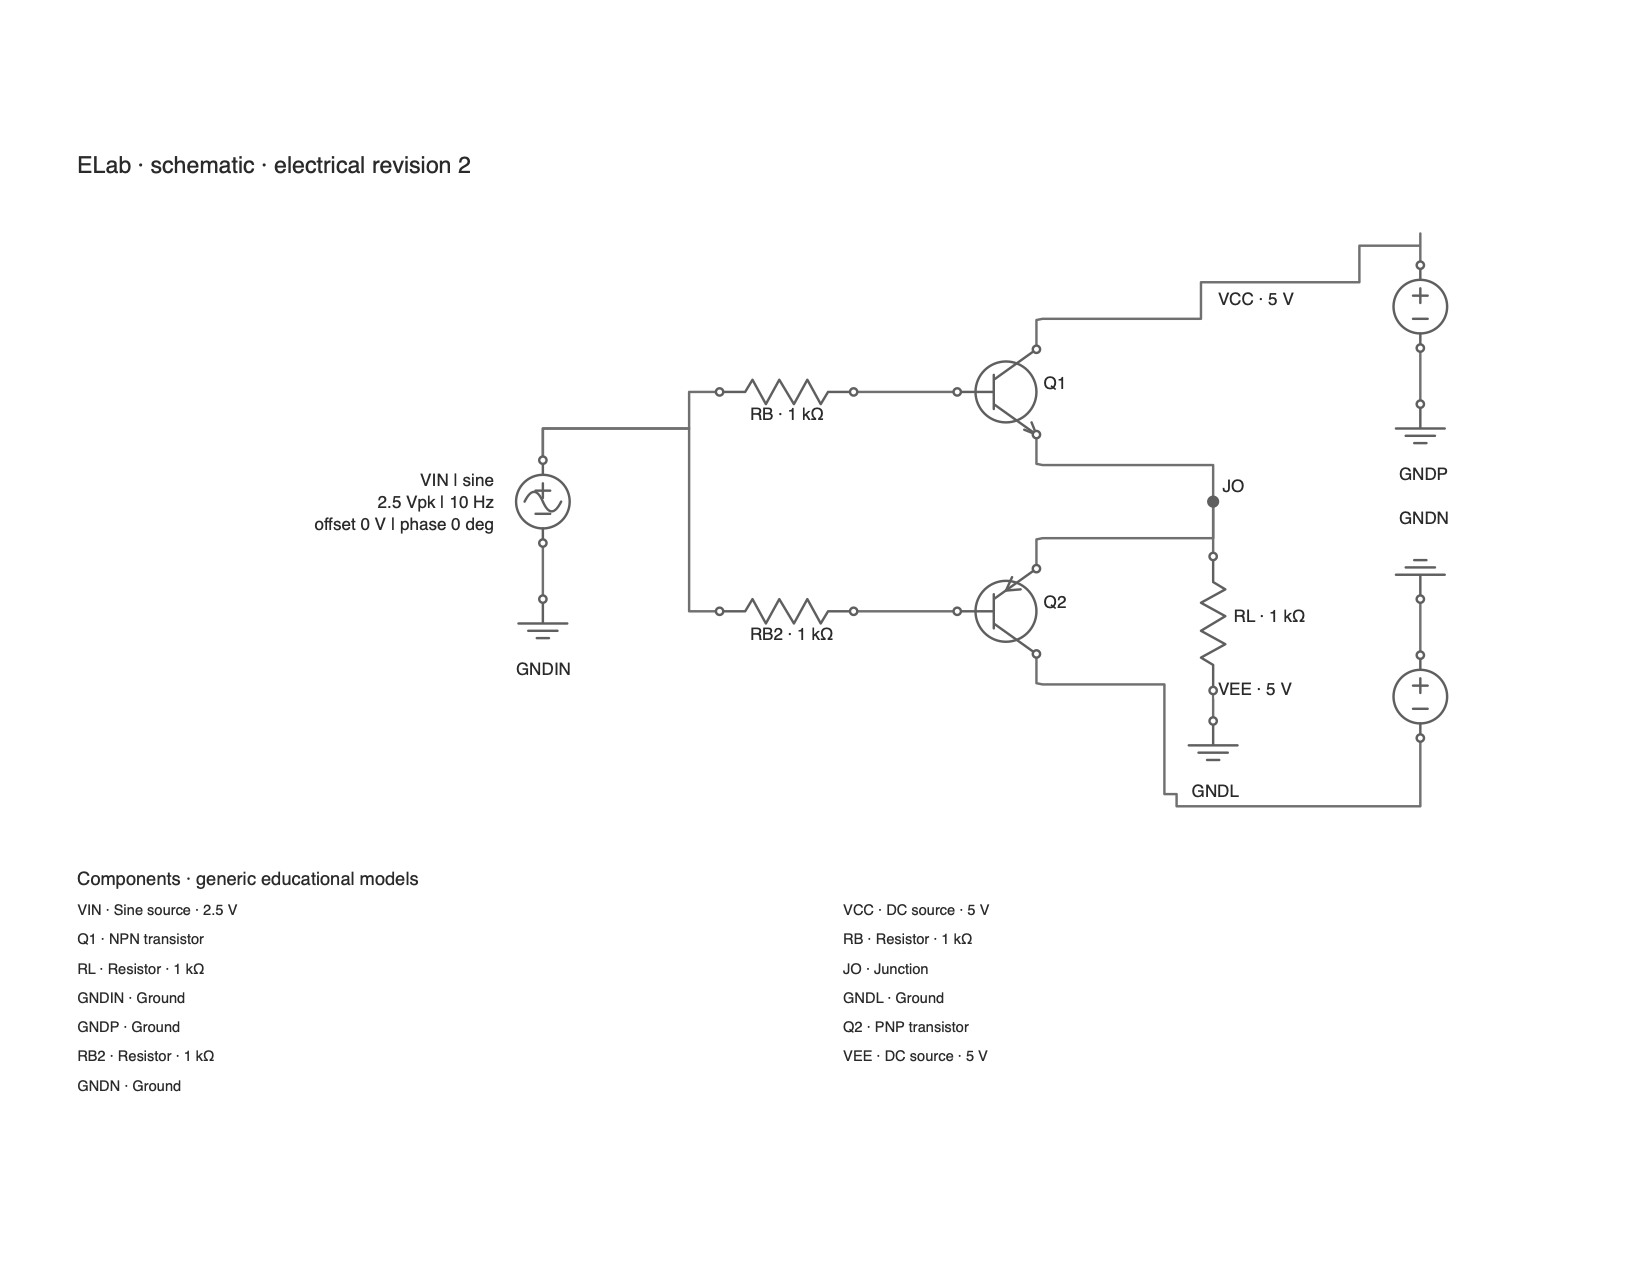
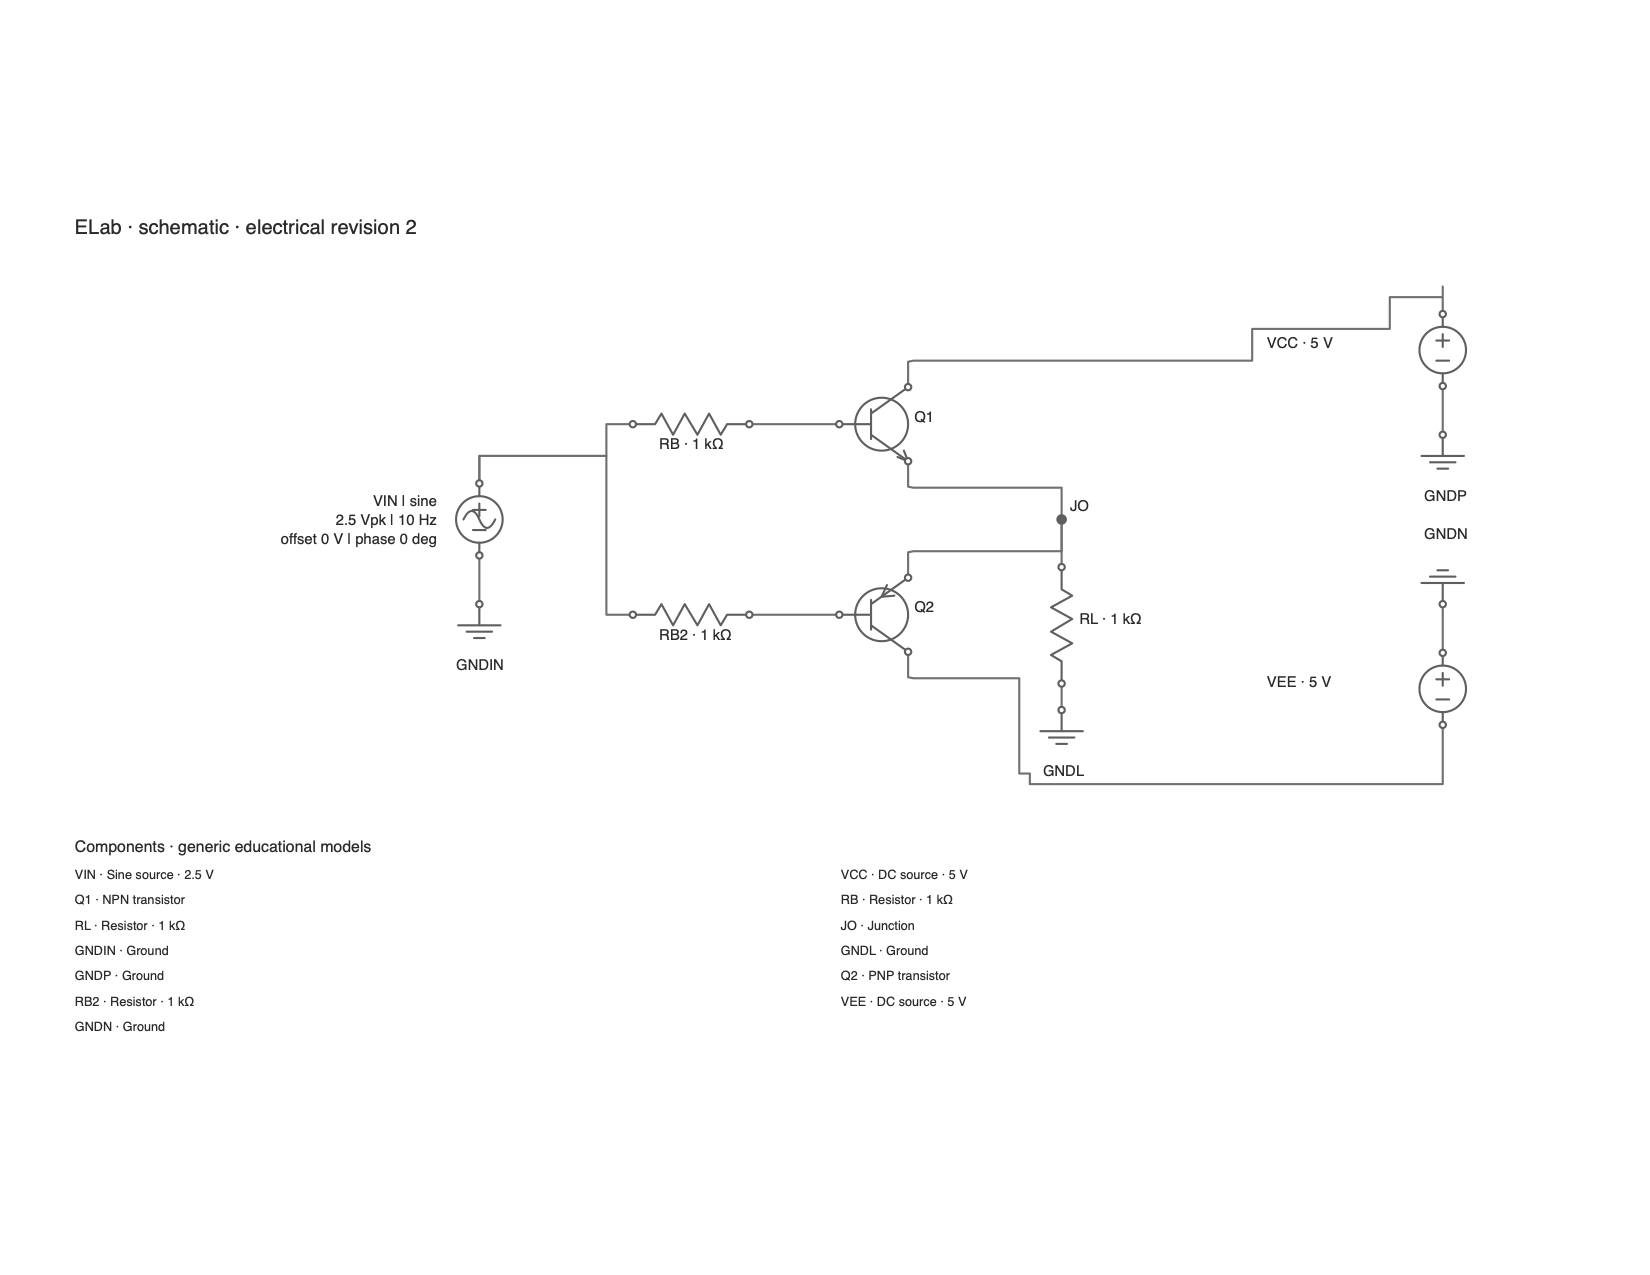
Clarify bipolar plot actions and prioritize selected electrical readings

diff --git a/desktop/component_inspector.go b/desktop/component_inspector.go
@@ -33,6 +33,17 @@ func (s *screen) componentInspector(state workbench.Snapshot, graph workbench.Gr
 	} else {
 		inspector = append(inspector, quiet("part-model-id", "Model: "+part.Model))
 	}
+	if r := state.Mixed; r != nil {
+		for _, q := range r.Transistors {
+			if q.TransistorID == part.ID {
+				status := "Live"
+				if r.Stale {
+					status = "Stale"
+				}
+				inspector = append(inspector, quiet("bipolar-selected-reading", fmt.Sprintf("%s · %s\nVBE %.6g V · VCE %.6g V\nIB %.6g µA · IC %.6g mA\nIE %.6g mA · power %.6g mW", status, q.State, q.VBE, q.VCE, q.BaseCurrent*1e6, q.CollectorCurrent*1000, q.EmitterCurrent*1000, q.TransistorPower*1000)), quiet("bipolar-current-signs", "IB / IC enter base / collector; IE leaves emitter. PNP readings normally have negative signs."))
+			}
+		}
+	}
 	if part.Kind == "potentiometer" {
 		inspector = append(inspector, s.potentiometerControls(state, part)...)
 	}
@@ -102,15 +113,6 @@ func (s *screen) componentInspector(state workbench.Snapshot, graph workbench.Gr
 	}
 
 	if r := state.Mixed; r != nil {
-		for _, q := range r.Transistors {
-			if q.TransistorID == part.ID {
-				status := "Live"
-				if r.Stale {
-					status = "Stale"
-				}
-				inspector = append(inspector, quiet("bipolar-selected-reading", fmt.Sprintf("%s · %s\nVBE %.6g V · VCE %.6g V\nIB %.6g µA · IC %.6g mA\nIE %.6g mA · power %.6g mW", status, q.State, q.VBE, q.VCE, q.BaseCurrent*1e6, q.CollectorCurrent*1000, q.EmitterCurrent*1000, q.TransistorPower*1000)), quiet("bipolar-current-signs", "IB / IC enter base / collector; IE leaves emitter. PNP readings normally have negative signs."))
-			}
-		}
 		for _, branches := range [][]workbench.BranchResult{r.LEDs, r.Diodes, r.Resistors, r.Sources} {
 			for _, b := range branches {
 				if b.ID == part.ID {

diff --git a/desktop/bipolar_test.go b/desktop/bipolar_test.go
@@ -39,10 +39,26 @@ func TestBipolarBlankDrawingUsesSameCommandsAndElectricalResults(t *testing.T) {
 			if !ok || !strings.Contains(reading.Text, "VBE") || !strings.Contains(reading.Text, "IC") {
 				t.Fatal("selected transistor lacks signed junction/current readings")
 			}
-			for _, probe := range []string{"v:" + id, "v:" + id + ".base-emitter", "i:" + id + ".collector"} {
-				if _, ok := findNode(user.view(), "plot-"+probe); !ok {
-					t.Fatal("transistor plot action missing", probe)
+			for probe, label := range map[string]string{"v:" + id: "Plot VCE", "v:" + id + ".base-emitter": "Plot VBE", "v:" + id + ".collector": "Plot collector voltage", "i:" + id + ".collector": "Plot collector current"} {
+				if node, ok := findNode(user.view(), "plot-"+probe); !ok || node.Text != label {
+					t.Fatal("transistor plot action missing or ambiguous", probe, node.Text)
 				}
+			}
+			selectedState := user.service.Snapshot()
+			selectedGraph := workbench.Graph{Components: selectedState.Components, Wires: selectedState.Wires}
+			selectedPart, _ := selectedGraph.Component(id)
+			panel := user.componentInspector(selectedState, selectedGraph, selectedPart)
+			readingIndex, modelIndex := -1, -1
+			for i, node := range panel {
+				if node.ID == "bipolar-selected-reading" {
+					readingIndex = i
+				}
+				if node.ID == "npn-model" {
+					modelIndex = i
+				}
+			}
+			if readingIndex < 0 || modelIndex < readingIndex {
+				t.Fatal("transistor readings should precede model notes")
 			}
 			uiAction(t, user, "selection", &ui.ChangeEvent{SelectedID: ids["RL"]})
 			uiAction(t, user, "value-entry", &ui.ChangeEvent{Text: "2k"})

diff --git a/desktop/workflow.go b/desktop/workflow.go
@@ -54,6 +54,18 @@ func (s *screen) partPlotControls(state workbench.Snapshot, p workbench.Componen
 					text = "Plot drain current"
 				}
 			}
+			if workbench.IsBipolarKind(p.Kind) {
+				switch probe.ID {
+				case "v:" + p.ID:
+					text = "Plot VCE"
+				case "v:" + p.ID + ".base-emitter":
+					text = "Plot VBE"
+				case "v:" + p.ID + ".collector":
+					text = "Plot collector voltage"
+				default:
+					text = "Plot collector current"
+				}
+			}
 			n := s.action("plot-"+probe.ID, text, "scope.probes.set", workbench.ProbeParams{IDs: withProbe(state.Scope.Selected, probe.ID)})
 			n.Disabled = state.Transient == nil
 			nodes = append(nodes, n)

diff --git a/docs/validation/bipolar-transistors/README.md b/docs/validation/bipolar-transistors/README.md
@@ -35,3 +35,21 @@ aliases target the existing example.load command. No new public command path.
 Final full desktop offscreen/race and native candidate observations are recorded
 in the completion checkpoint below when available. The preserved /205 release
 archive is not replaced by this development candidate.
+
+## Completion checkpoint
+
+The full desktop suite with offscreen paint/input tests and the race detector
+passes in 421.816 seconds. The full root race suite passes, including workbench
+(89.290 s), conformance (116.810 s) and socket transport (1.380 s). These runs
+cover the electrical implementation; the subsequent supply-caption-only move
+passes final focused electrical/example checks. Lint, vet and Python checks pass.
+
+Native /232 shows the working Apollo PNP example with an illuminated LED,
+negative base/collector/emitter readings and synchronized input/LED/VBE/collector
+traces. The native check revealed ambiguous duplicate Plot voltage captions.
+They now explicitly identify VBE, VCE and collector voltage/current. Selected
+readings now precede the model notes. This presentation-only follow-up retains
+all control IDs, shared commands and guards; focused user/agent, flasher, NPN,
+inspector form across four themes, tab and symbol regressions pass in 43.466 s.
+The owned /232 session was closed normally for its replacement; other sessions
+and user projects were preserved. No original electrical reference was rewritten.
